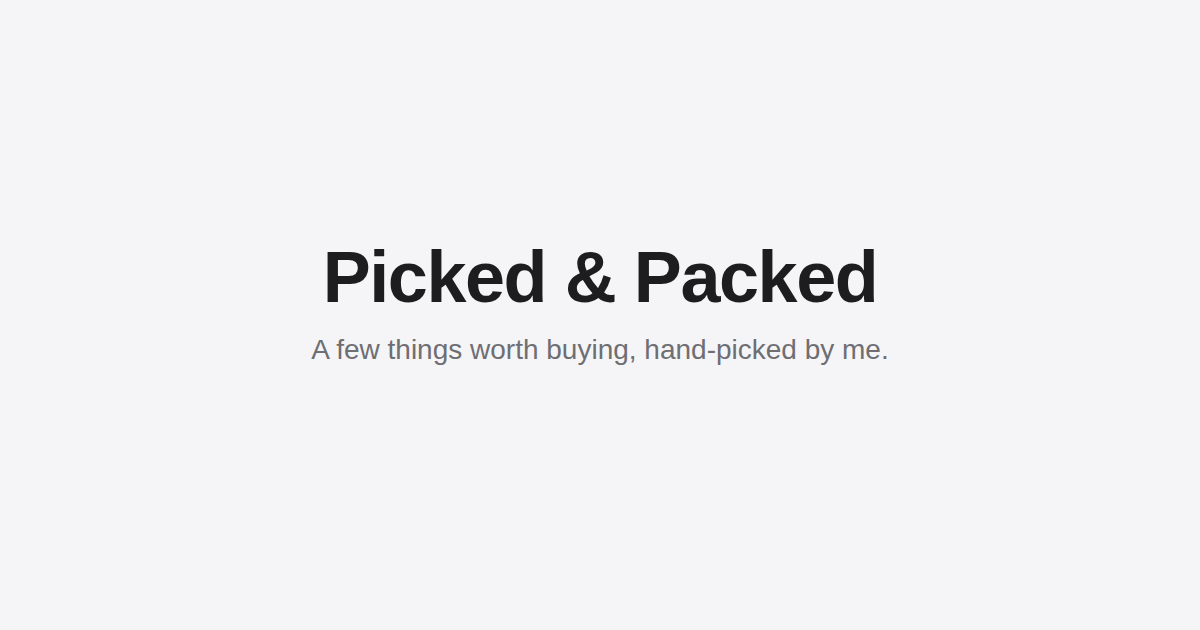
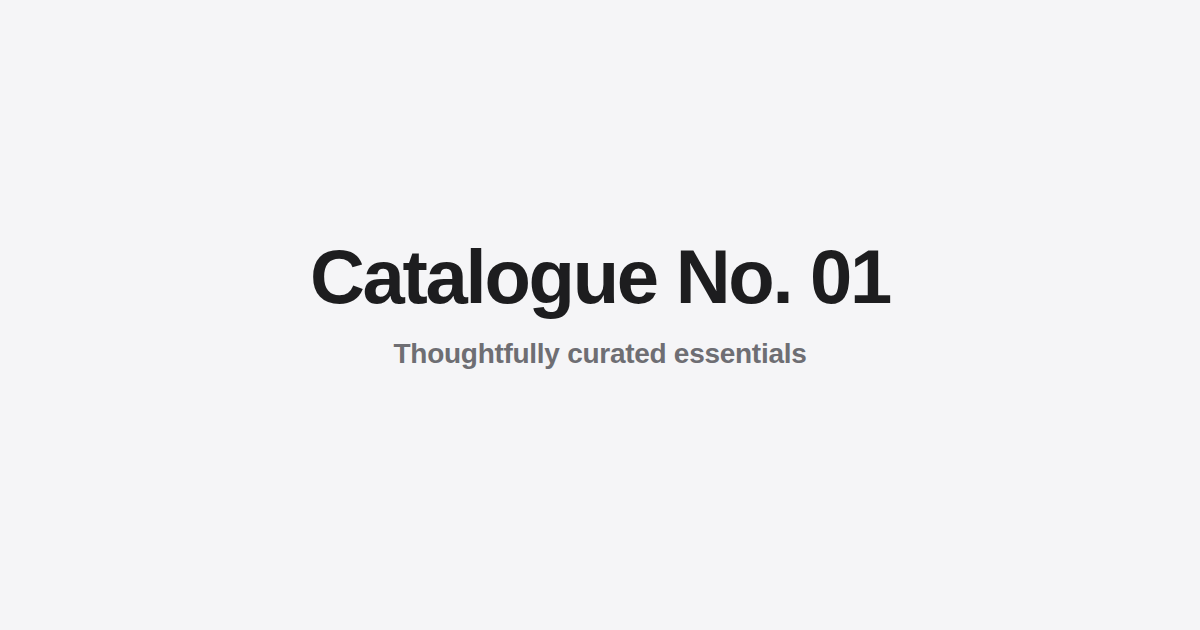
Rename to Catalogue No. 01, fold subtitle into the hero
Renames the site everywhere (nav, hero, <title>, OG tags, README,
og-image.png) from "Picked & Packed" to "Catalogue No. 01".

Removes the hero tagline and replaces it with "Thoughtfully curated
essentials" directly under the title, using the same scroll-highlight
technique as before but no longer as its own dedicated 200vh pinned
section. It now rides the scroll distance the hero already needs to
fully exit (heroEl.offsetHeight) — the same distance that triggers the
nav bar — so the effect no longer costs any extra page space. The nav
bar's existing slide-down-on-scroll behavior is unchanged.

Claude-Session: https://claude.ai/code/session_01GAyZpUcBtbwZ9akumAMqbG

Changed region(s): [[0.2467, 0.3921, 0.74, 0.5127], [0.2467, 0.5429, 0.74, 0.6032]]

diff --git a/script.js b/script.js
@@ -61,51 +61,46 @@ navObserver.observe(heroEl);
 observeReveal(controlsEl, 0);
 
 // ---------------------------------------------------------------------
-// Philosophy section: scroll-scrubbed word highlight
+// Hero subtitle: scroll-scrubbed word highlight
 // Unlike observeReveal above (which is a one-time "has this scrolled into
 // view yet?" check), this needs a continuous 0-1 progress value tied to
-// scroll position, so it reads its own layout directly with
-// getBoundingClientRect() instead of using IntersectionObserver.
+// scroll position. Rather than reserving a separate tall section for it,
+// this rides the scroll distance the hero already needs to scroll fully
+// out of view (heroEl.offsetHeight) — the same distance that triggers the
+// nav bar above — so no extra page space is spent on the effect.
 // ---------------------------------------------------------------------
-const philosophyEl = document.getElementById("philosophy");
-const philosophyTextEl = document.getElementById("philosophy-text");
+const heroSubtitleEl = document.getElementById("hero-subtitle");
 
-// Split the paragraph into one <span class="word"> per word, so each word
+// Split the subtitle into one <span class="word"> per word, so each word
 // can be colored independently. This is safe to do with innerHTML here
 // specifically because the text is our own hard-coded copy in index.html,
 // not data from products.json or any other untrusted source.
-const philosophyWords = philosophyTextEl.textContent.trim().split(/\s+/);
-philosophyTextEl.innerHTML = philosophyWords
+const subtitleWords = heroSubtitleEl.textContent.trim().split(/\s+/);
+heroSubtitleEl.innerHTML = subtitleWords
   .map((word) => `<span class="word">${word}</span>`)
   .join(" ");
-const wordEls = philosophyTextEl.querySelectorAll(".word");
+const subtitleWordEls = heroSubtitleEl.querySelectorAll(".word");
 
-function updatePhilosophyHighlight() {
-  const rect = philosophyEl.getBoundingClientRect();
-  // .philosophy is 200vh tall with its inner content pinned via `sticky`,
-  // so this scroll range is exactly one viewport-height's worth (200vh of
-  // section minus the 100vh it's pinned for). progress goes from 0 (the
-  // section's top has just reached the top of the viewport) to 1 (its
-  // bottom is about to leave the bottom of the viewport).
-  const scrollable = rect.height - window.innerHeight;
-  const progress = scrollable > 0 ? Math.min(Math.max(-rect.top / scrollable, 0), 1) : 1;
-
-  const litCount = Math.round(progress * wordEls.length);
-  wordEls.forEach((word, i) => {
+function updateSubtitleHighlight() {
+  // 0 at the very top of the page, 1 once you've scrolled one hero's-height
+  // — right around when the hero has fully exited and the nav bar appears.
+  const progress = Math.min(Math.max(window.scrollY / heroEl.offsetHeight, 0), 1);
+  const litCount = Math.round(progress * subtitleWordEls.length);
+  subtitleWordEls.forEach((word, i) => {
     word.classList.toggle("is-active", i < litCount);
   });
 }
 
-let philosophyTicking = false;
+let subtitleTicking = false;
 window.addEventListener("scroll", () => {
-  if (philosophyTicking) return;
-  philosophyTicking = true;
+  if (subtitleTicking) return;
+  subtitleTicking = true;
   requestAnimationFrame(() => {
-    updatePhilosophyHighlight();
-    philosophyTicking = false;
+    updateSubtitleHighlight();
+    subtitleTicking = false;
   });
 });
-updatePhilosophyHighlight(); // correct state immediately, e.g. on a page refresh mid-scroll
+updateSubtitleHighlight(); // correct state immediately, e.g. on a page refresh mid-scroll
 
 // ---------------------------------------------------------------------
 // Custom cursor: a small dot that snaps exactly to the mouse every frame

diff --git a/styles.css b/styles.css
@@ -159,9 +159,31 @@ body {
   letter-spacing: -0.03em;
 }
 
-.hero-tagline {
+.hero-subtitle {
+  font-size: clamp(1.1rem, 2.4vw, 1.4rem);
+  font-weight: 600;
+  letter-spacing: -0.01em;
+}
+
+/* script.js wraps every word of .hero-subtitle in one of these and toggles
+   "is-active" based on scroll position — see updateSubtitleHighlight() in
+   script.js. Unlit words use the same muted gray as secondary text
+   elsewhere, not a near-invisible one — it's a reading progression, not a
+   puzzle. */
+.hero-subtitle .word {
   color: var(--color-text-muted);
-  font-size: 1.15rem;
+  transition: color 0.2s ease;
+}
+
+.hero-subtitle .word.is-active {
+  color: var(--color-text);
+}
+
+@media (prefers-reduced-motion: reduce) {
+  .hero-subtitle .word {
+    color: var(--color-text);
+    transition: none;
+  }
 }
 
 /* Plays once, on page load — this is the "entrance". `both` as the fourth
@@ -170,12 +192,12 @@ body {
    the final, fully-visible position for a split second first) and the *to*
    state applied after it ends. */
 .hero-title,
-.hero-tagline,
+.hero-subtitle,
 .scroll-cue {
   animation: rise-in 0.8s cubic-bezier(0.16, 1, 0.3, 1) both;
 }
 
-.hero-tagline {
+.hero-subtitle {
   animation-delay: 0.15s;
 }
 
@@ -225,80 +247,10 @@ body {
 
 @media (prefers-reduced-motion: reduce) {
   .hero-title,
-  .hero-tagline,
+  .hero-subtitle,
   .scroll-cue,
   .scroll-cue-arrow {
     animation: none;
-  }
-}
-
-/* ==========================================================================
-   Philosophy: scroll-scrubbed text highlight
-   Unlike .reveal above (which plays once and is done), this section's
-   highlight state is tied directly to *how far* you've scrolled through
-   it — scroll halfway through the section, half the words are lit.
-   The wrapper is 200vh tall (double a normal screen) purely to create
-   scrollable distance to scrub through; the inner content is `sticky`,
-   so it stays pinned in place on screen for that entire 200vh while the
-   page scrolls underneath it — same sticky trick as .site-nav, just used
-   to hold something still instead of slide something in.
-   ========================================================================== */
-.philosophy {
-  min-height: 200vh;
-  position: relative;
-}
-
-.philosophy-inner {
-  position: sticky;
-  top: 0;
-  min-height: 100vh;
-  display: flex;
-  align-items: center;
-  justify-content: center;
-  padding: 24px;
-}
-
-.philosophy-text {
-  /* A short, three-word statement reads as premium when it's treated like
-     a headline (big, bold, tight tracking) rather than body copy — same
-     scale of move as .hero-title, not a shrunken paragraph. */
-  max-width: 900px;
-  font-size: clamp(2.4rem, 6.5vw, 4.5rem);
-  font-weight: 800;
-  line-height: 1.2;
-  text-align: center;
-  letter-spacing: -0.03em;
-}
-
-/* script.js wraps every word in one of these. Unlit words use the same
-   muted gray as secondary text elsewhere on the page, not a near-invisible
-   one — the point is a reading progression, not a puzzle. */
-.philosophy-text .word {
-  color: var(--color-text-muted);
-  transition: color 0.2s ease;
-}
-
-.philosophy-text .word.is-active {
-  color: var(--color-text);
-}
-
-@media (prefers-reduced-motion: reduce) {
-  /* Scroll-scrubbing is inherently a motion effect, so reduced-motion
-     visitors get the plain, fully-readable paragraph instead — normal
-     document flow, no pinning, every word already in its final color. */
-  .philosophy {
-    min-height: 0;
-  }
-
-  .philosophy-inner {
-    position: static;
-    min-height: 0;
-    padding: 64px 24px;
-  }
-
-  .philosophy-text .word {
-    color: var(--color-text);
-    transition: none;
   }
 }
 

diff --git a/index.html b/index.html
@@ -3,7 +3,7 @@
 <head>
   <meta charset="UTF-8" />
   <meta name="viewport" content="width=device-width, initial-scale=1.0" />
-  <title>Picked & Packed — Curated Finds</title>
+  <title>Catalogue No. 01 — Curated Finds</title>
   <meta name="description" content="A small, hand-picked collection of products worth buying — no clutter, no ads, just things I actually like." />
 
   <!-- Open Graph tags: these control how the page looks when pasted into
@@ -12,7 +12,7 @@
        file committed in this repo (og-image.png), not a third-party image
        service, so it always loads with no external dependency. -->
   <meta property="og:type" content="website" />
-  <meta property="og:title" content="Picked & Packed — Curated Finds" />
+  <meta property="og:title" content="Catalogue No. 01 — Curated Finds" />
   <meta property="og:description" content="A small, hand-picked collection of products worth buying — no clutter, no ads, just things I actually like." />
   <meta property="og:url" content="https://fungdoobit.github.io/catalogue/" />
   <meta property="og:image" content="https://fungdoobit.github.io/catalogue/og-image.png" />
@@ -28,16 +28,17 @@
        the entrance, then acts as a persistent "you're on this site" anchor
        while browsing the grid. -->
   <header class="site-nav" id="site-nav">
-    <p class="site-nav-title">Picked &amp; Packed</p>
+    <p class="site-nav-title">Catalogue No. 01</p>
   </header>
 
-  <!-- The entrance: fills the screen on load with just the name and
-       tagline, no search bar or grid competing for attention yet.
-       Scrolling past this is what reveals the actual site below — see
-       .hero in styles.css for the on-load animation. -->
+  <!-- The entrance: fills the screen on load with the name and, right
+       below it, a short subtitle that lights up word by word as you
+       scroll — script.js drives that off the same scroll distance that
+       reveals the nav bar above, so it doesn't need any extra scroll
+       space of its own. See .hero and .hero-subtitle in styles.css. -->
   <section class="hero" id="hero">
-    <h1 class="hero-title">Picked &amp; Packed</h1>
-    <p class="hero-tagline">A few things worth buying, hand-picked by me.</p>
+    <h1 class="hero-title">Catalogue No. 01</h1>
+    <p class="hero-subtitle" id="hero-subtitle">Thoughtfully curated essentials</p>
     <div class="scroll-cue" aria-hidden="true">
       <span>Scroll to explore</span>
       <span class="scroll-cue-arrow">
@@ -49,16 +50,6 @@
   </section>
 
   <main>
-    <!-- Scroll-scrubbed text: script.js splits this into one <span> per
-         word and lights each one up based on how far you've scrolled
-         through .philosophy, not just once when it comes into view. See
-         .philosophy in styles.css for how the scroll range works. -->
-    <section class="philosophy" id="philosophy">
-      <div class="philosophy-inner">
-        <p class="philosophy-text" id="philosophy-text">Thoughtfully curated essentials</p>
-      </div>
-    </section>
-
     <!-- Search + category filters live together in one "controls" section
          so they visually read as one toolbar above the grid. -->
     <section class="controls">

diff --git a/README.md b/README.md
@@ -1,4 +1,4 @@
-# Picked & Packed
+# Catalogue No. 01
 
 A small, static, Apple-style curated product link page. Plain HTML/CSS/JS —
 no build step, no frameworks, no backend.
